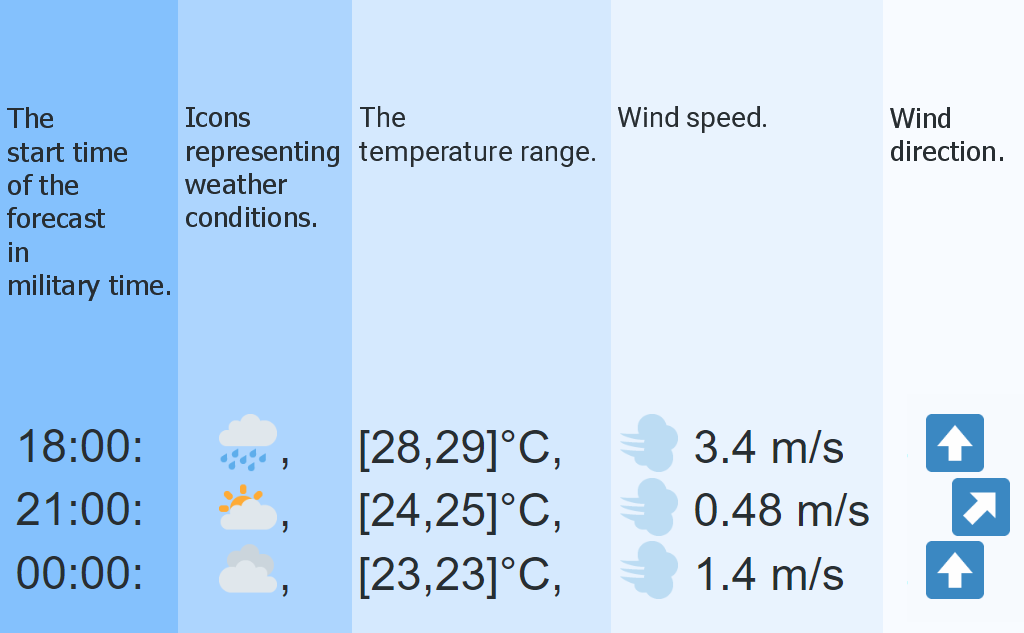
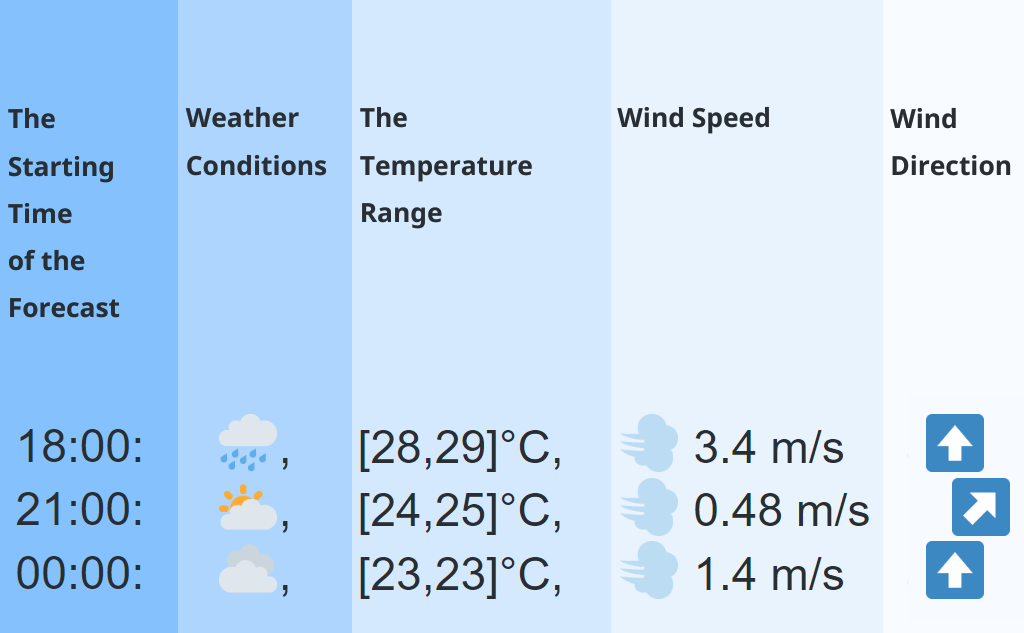
easier to read text

diff --git a/index.html b/index.html
@@ -3,7 +3,9 @@
     <head>
         <title>COMOWeather</title>
         <link rel="stylesheet" href="css/index.css">
+        <link rel="stylesheet" href="materialize/css/materialize.min.css">
         <script src="https://twemoji.maxcdn.com/v/latest/twemoji.min.js" crossorigin="anonymous"></script>
+        <script src="materialize/js/materialize.min.js" crossorigin="anonymous"></script>
     </head>
     <body>
         <div id="main">

diff --git a/css/index.css b/css/index.css
@@ -66,11 +66,13 @@ body{
 
 #guide td:last-child{
     border-right: 0;
+    font-size: 14pt
 }
 
 #guide th{
     background-color: #213d70;
     color: #adc3db;
+    font-size: 14pt;
     padding: .75em;
 }
 
